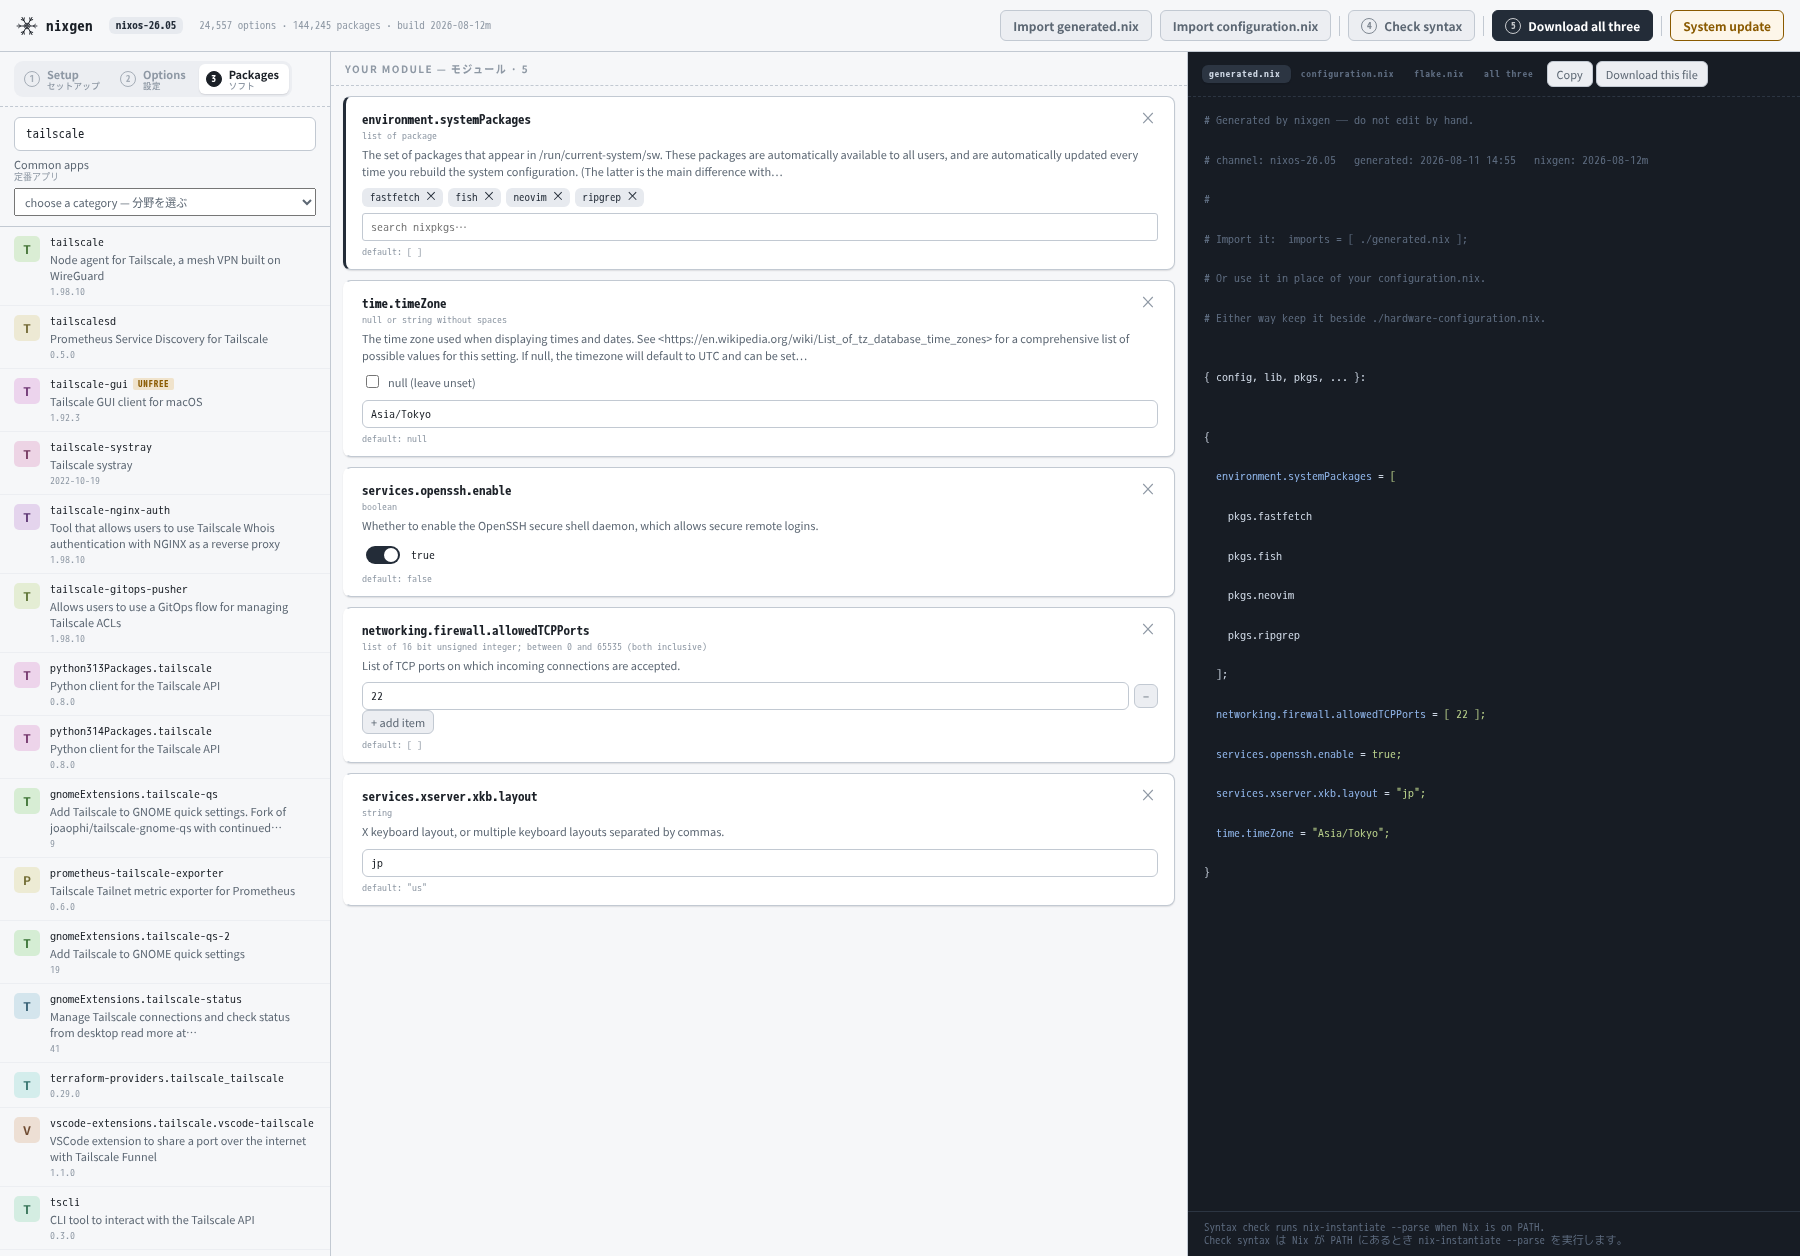
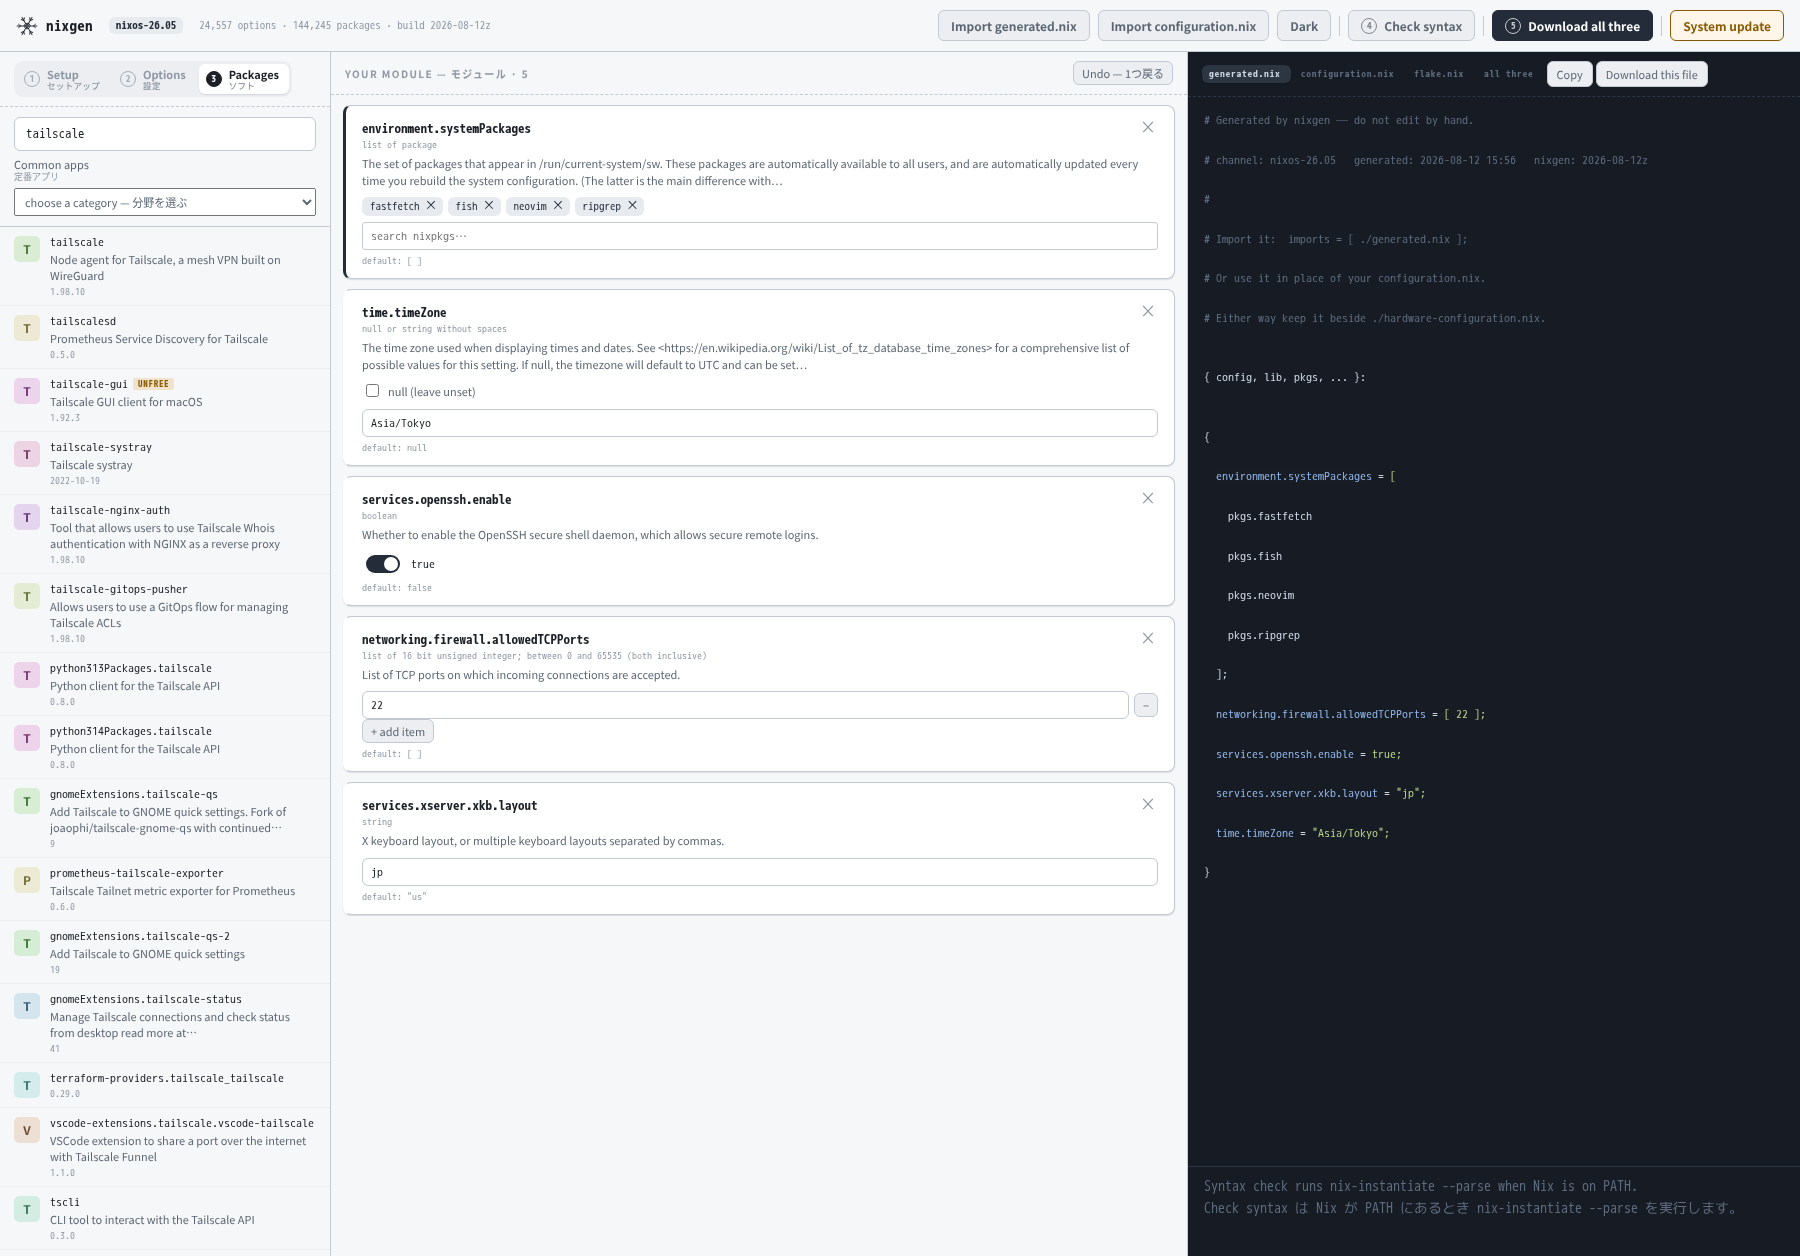
Retake the screenshots, and give the dark theme dark ones
The three on the homepage were four features out of date: no Undo button,
no theme toggle, no Media playback row, and the old short status bar. They
are taken from the current build (2026-08-12z), which the header in each
shot says out loud -- that visible build id is how a stale one is spotted.

tools/shots.py takes each shot twice now. The theme is set in localStorage
before the page loads, which is where the app looks first, so the shot is
of the reader's own switch rather than a class poked in afterwards.

The homepage swaps the pair on its own data-theme, deliberately not on a
<picture> with prefers-color-scheme: that would follow the system and
ignore the button the reader just pressed. Both <img>s carry the same alt,
because display:none takes the hidden one out of the accessibility tree
and whichever is showing has to be the one that describes itself. The
READMEs do use <picture> -- there is no button there, and GitHub honours
the media query -- which is the split their logo already lives with.

Verified in a real browser: a dark context shows the three -dark files and
a light one shows the three light files, with nothing failing to load.

diff --git a/docs/index.html b/docs/index.html
@@ -186,6 +186,15 @@ code { font-family: var(--mono); font-size: .9em; background: var(--panel);
 pre code { border: none; background: none; padding: 0; }
 
 figure { margin: 26px 0 0; }
+/* Each screenshot is here twice, light and dark, and the theme decides which
+   one is in the document. A <picture> with a prefers-color-scheme source
+   would follow the system and ignore the button above, which is the one the
+   reader actually pressed. Both carry the same alt: display:none takes the
+   hidden one out of the accessibility tree, so whichever is showing has to be
+   the one that describes itself. */
+figure .shot-dark { display: none; }
+:root[data-theme="dark"] figure .shot-light { display: none; }
+:root[data-theme="dark"] figure .shot-dark { display: block; }
 figure img { width: 100%; display: block; border: 1px solid var(--rule);
              border-radius: 8px; box-shadow: var(--shadow-2); }
 figcaption { font-size: 12px; color: var(--ink-faint); margin-top: 8px; }
@@ -326,7 +335,8 @@ footer a { margin-right: 14px; }
   </div>
 
   <figure>
-    <img src="screenshot.png" alt="nixgen: option catalogue on the left, editable settings in the middle, the generated Nix file on the right">
+    <img class="shot-light" src="screenshot.png" alt="nixgen: option catalogue on the left, editable settings in the middle, the generated Nix file on the right">
+    <img class="shot-dark" src="screenshot-dark.png" alt="nixgen: option catalogue on the left, editable settings in the middle, the generated Nix file on the right">
     <figcaption class="en">Catalogue, form, and the file being generated — all visible at once.</figcaption>
     <figcaption class="ja">カタログ、フォーム、生成中のファイルが同時に見えます。</figcaption>
   </figure>
@@ -573,7 +583,8 @@ https://channels.nixos.org/nixos-26.05/packages.json.br</pre>
     <p class="ja">ブートローダーは固定ではなく選択式です。UEFIならsystemd-boot、BIOSならGRUB（ディスクの指定欄が出ます）、他のモジュールに任せるなら「none」。どちらの構成も、実際のNixOSシステムとして評価して確認しています。</p>
 
     <figure>
-      <img src="screenshot-setup.png" alt="The Setup tab: host name, user name and the channel on the left, five steps explaining how the tool works in the middle, and the generated configuration.nix on the right">
+      <img class="shot-light" src="screenshot-setup.png" alt="The Setup tab: host name, user name and the channel on the left, five steps explaining how the tool works in the middle, and the generated configuration.nix on the right">
+      <img class="shot-dark" src="screenshot-setup-dark.png" alt="The Setup tab: host name, user name and the channel on the left, five steps explaining how the tool works in the middle, and the generated configuration.nix on the right">
       <figcaption class="en">Starter files, generated from three fields.</figcaption>
       <figcaption class="ja">3つの入力欄からスターターファイルが生成されます。</figcaption>
     </figure>
@@ -632,7 +643,8 @@ https://channels.nixos.org/nixos-26.05/packages.json.br</pre>
     </div>
 
     <figure>
-      <img src="screenshot-import.png" alt="A configuration read in: a summary at the top saying what was filled into the form and which two options no longer exist in this release, the settings themselves below it, and the lines carried over as written marked in the generated file">
+      <img class="shot-light" src="screenshot-import.png" alt="A configuration read in: a summary at the top saying what was filled into the form and which two options no longer exist in this release, the settings themselves below it, and the lines carried over as written marked in the generated file">
+      <img class="shot-dark" src="screenshot-import-dark.png" alt="A configuration read in: a summary at the top saying what was filled into the form and which two options no longer exist in this release, the settings themselves below it, and the lines carried over as written marked in the generated file">
       <figcaption class="en">Every line is accounted for — the summary says exactly what happened to each.</figcaption>
       <figcaption class="ja">すべての行が計上されます。何がどう扱われたかが一覧で出ます。</figcaption>
     </figure>

diff --git a/tools/shots.py b/tools/shots.py
@@ -8,6 +8,12 @@ Drives the real app rather than mocking anything, so what lands on the homepage
 is what the tool actually does — including the build id and the option counts,
 which is how you can tell at a glance whether a shot is stale.
 
+**Each shot is taken twice, light and dark**, because the homepage carries both
+and swaps them with its own toggle. The dark ones get a `-dark` suffix. The
+theme is set in localStorage before the page loads, which is where the app
+looks first — the same switch a reader would flip, rather than a class poked
+in afterwards.
+
     # in one terminal
     python3 build/server.py --db data/nixgen.sqlite --port 8824 --no-browser
 
@@ -91,10 +97,18 @@ def add_option(page, query, path):
     page.wait_for_timeout(400)
 
 
-with sync_playwright() as p:
-    browser = p.chromium.launch(args=["--hide-scrollbars"])
-    page = browser.new_page(viewport={"width": W, "height": H},
-                            device_scale_factor=1)
+def shoot(browser, theme):
+    """Every shot, in one theme. `suffix` is what tells the files apart."""
+    suffix = "-dark" if theme == "dark" else ""
+    context = browser.new_context(viewport={"width": W, "height": H},
+                                  device_scale_factor=1,
+                                  color_scheme=theme)
+    # Set before any page script runs: the app reads the saved choice first
+    # and only then asks the system, so this is the reader's own switch
+    # rather than something forced on top afterwards.
+    context.add_init_script(
+        "try { localStorage.setItem('theme', %r); } catch (e) {}" % theme)
+    page = context.new_page()
 
     # ----------------------------------------------------------- setup tab
     page.goto(BASE, wait_until="networkidle")
@@ -106,8 +120,8 @@ with sync_playwright() as p:
     page.wait_for_timeout(1200)
     page.click('.filetabs .tab[data-file="configuration.nix"]')
     page.wait_for_timeout(600)
-    page.screenshot(path=f"{OUT}/screenshot-setup.png")
-    print("wrote screenshot-setup.png")
+    page.screenshot(path=f"{OUT}/screenshot-setup{suffix}.png")
+    print(f"wrote screenshot-setup{suffix}.png")
 
     # ---------------------------------------------- the catalogue in use
     page.click('#pane-catalog .tab[data-kind="options"]')
@@ -142,8 +156,8 @@ with sync_playwright() as p:
     page.wait_for_timeout(1000)
     page.click('.filetabs .tab[data-file="generated.nix"]')
     page.wait_for_timeout(1000)
-    page.screenshot(path=f"{OUT}/screenshot.png")
-    print("wrote screenshot.png")
+    page.screenshot(path=f"{OUT}/screenshot{suffix}.png")
+    print(f"wrote screenshot{suffix}.png")
 
     # -------------------------------------------------- reading a file in
     page.goto(BASE, wait_until="networkidle")
@@ -161,7 +175,13 @@ with sync_playwright() as p:
     page.evaluate("const b = document.querySelector('#editor').parentElement;"
                   "if (b) b.scrollTop = 0;")
     page.wait_for_timeout(400)
-    page.screenshot(path=f"{OUT}/screenshot-import.png")
-    print("wrote screenshot-import.png")
+    page.screenshot(path=f"{OUT}/screenshot-import{suffix}.png")
+    print(f"wrote screenshot-import{suffix}.png")
+    context.close()
 
+
+with sync_playwright() as p:
+    browser = p.chromium.launch(args=["--hide-scrollbars"])
+    for theme in ("light", "dark"):
+        shoot(browser, theme)
     browser.close()

diff --git a/CHANGELOG.md b/CHANGELOG.md
@@ -34,6 +34,15 @@ Landed on `development` first, merged into `main` since.
   not follow**: that one is a picture of the icon file as installed, and the
   file carries a white tile on purpose, because an application menu shows one
   file and cannot pick per theme.
+- **The screenshots were retaken, and there are dark ones now.** The three on
+  the homepage were four features out of date — no Undo button, no theme
+  toggle, no Media playback row, the old short status bar. `tools/shots.py`
+  takes each one twice now, light and dark, setting the theme in
+  `localStorage` before the page loads so it is the app's own switch rather
+  than a class poked in afterwards. The homepage swaps the pair on its own
+  `data-theme`, not on `prefers-color-scheme`, so the picture follows the
+  button the reader pressed rather than the system underneath it. The READMEs
+  get the dark shot through `<picture>`, the way their logo already does.
 - **The light palette was raised while the ruler was out.** Its body text sat
   at 4.23:1 and its small print at 2.15:1 — below the bar, and impossible to
   leave once a dark palette measuring above 4.5 everywhere sat beside it.
@@ -1929,6 +1938,7 @@ three of these six showed up in only one of the two.
 
 - **ホームページにダークモードを実装しました。** 方式はアプリと同じで、`data-theme` 属性の裏にパレットを置き、スタイル適用前に属性を決めるので、暗い環境で開いても白が一瞬光りません。既定は**閲覧者の設定に追随**し、ヘッダのボタンで手動切り替えもでき、選択は記憶されます(何も選んでいなければ OS の変更にその場で追随し続けます)。
 - **ロゴとファビコンも連動します。** 2つの `logo.png` はアルファチャンネルだけの純黒なので、反転すると**にじみのない白の原画**になります(README のダーク用ロゴと同じ事実です)。ファビコンもインクを差し替えるのでタブが揃います。**アプリケーションアイコンだけは意図的に連動させていません** — あれはインストールされる実物のアイコンファイルの写真で、そのファイルは白地を持つのが正しいからです(アプリメニューは1つのファイルしか表示せず、テーマごとに選び分けられません)。
+- **スクリーンショットを撮り直し、ダーク版を用意しました。** ホームページの3枚は機能4つ分古くなっていました(Undo ボタンなし、テーマ切替なし、メディア再生の行なし、ステータス欄も旧い高さ)。`tools/shots.py` は各カットを**ライトとダークで2回**撮るようになり、テーマはページ読み込み前に `localStorage` へ書きます — アプリが最初に見る場所なので、後からクラスを差し込むのではなく**アプリ自身のスイッチ**を使っていることになります。ホームページは `prefers-color-scheme` ではなく自分の `data-theme` で組を切り替えます。読者が押したボタンに従うべきで、その下の OS 設定ではないからです。README では `<picture>` でダーク版を出します(ロゴが既にそうしているのと同じ方式です)。
 - **ものさしを出したついでに、ライト側のパレットも引き上げました。** 本文が 4.23:1、小さな文字が 2.15:1 と基準を下回っており、4.5 を全域で超えるダークが隣に並ぶと放置できませんでした。**両テーマとも、測定した全箇所で 4.5:1 を超えます**。淡いほうのグレーは、今も見た目に淡いままです。
 
 ## 日本語

diff --git a/CLAUDE.md b/CLAUDE.md
@@ -914,10 +914,20 @@ matter as much as the random part: random sampling did **not** catch the
 negative-number bug when it was deliberately reintroduced, because that seed
 happened not to put a negative number in a list.
 
-`tools/shots.py` retakes the three screenshots by driving the running app, so
+`tools/shots.py` retakes the screenshots by driving the running app, so
 they cannot drift the way they did — they had gone three features out of date,
 because retaking them by hand was a chore nobody remembered. The build id and
 the option counts are visible in every shot, which is how a stale one is spotted.
+**It takes each shot twice, light and dark**, the dark one with a `-dark`
+suffix; the theme is set in `localStorage` before the page loads, which is
+where the app looks first, so it is the reader's own switch rather than a
+class poked in afterwards. The homepage carries both and swaps them on
+`data-theme` — **not** a `<picture>` with `prefers-color-scheme`, which would
+follow the system and ignore the button the reader actually pressed. Both
+`<img>`s carry the same alt, because `display: none` takes the hidden one out
+of the accessibility tree and whichever is showing has to describe itself.
+The READMEs do use `<picture>`, because there is no button there and GitHub
+honours the media query — the same split the logo already lives with.
 
 `tools/import_check.py` reads configurations back in and checks that every line
 is accounted for, comes back as the value it went in as, and rebuilds into a

diff --git a/README.ja.md b/README.ja.md
@@ -10,7 +10,10 @@
 > [!NOTE]
 > **これは `development` ブランチ — 実験用のほうです。** 以下のコマンドはすべてこのブランチを明示しています(`github:hatake716/nixgen/development`)。書いてある内容と実際に入るものを一致させるためです。安定版は [`main`](https://github.com/hatake716/nixgen/tree/main) で、ブランチを付けない `github:hatake716/nixgen` はそちらを指します(main 側の README はブランチを付けていません)。開発はまずここに入り、問題なく動くことが分かってから main に合流するので、このページの内容は main より先行していることがあります。
 
-![nixgen](docs/screenshot.png)
+<picture>
+  <source media="(prefers-color-scheme: dark)" srcset="docs/screenshot-dark.png">
+  <img src="docs/screenshot.png" alt="nixgen">
+</picture>
 
 ### 3つの理由
 

diff --git a/README.md b/README.md
@@ -19,7 +19,10 @@ before anything on your machine changes.
 > off. Work lands here first and moves to `main` once it has held up, so
 > anything on this page may be newer than what `main` will do.
 
-![nixgen](docs/screenshot.png)
+<picture>
+  <source media="(prefers-color-scheme: dark)" srcset="docs/screenshot-dark.png">
+  <img src="docs/screenshot.png" alt="nixgen">
+</picture>
 
 ### Three reasons
 
